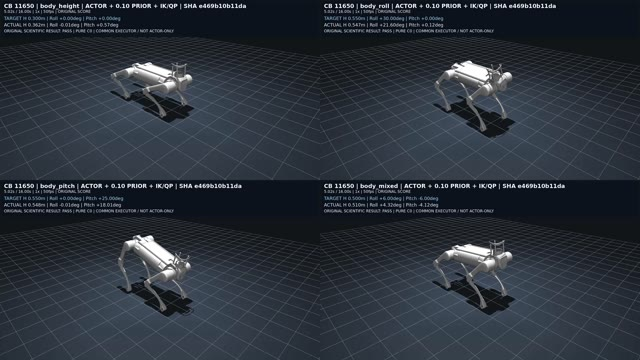
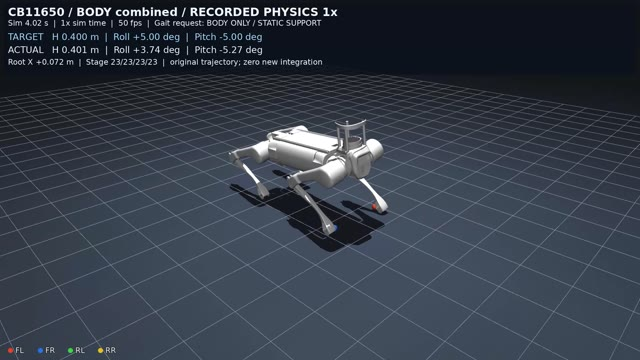
Use combined pose clip in Paper 2 results

diff --git a/paper2/index.html b/paper2/index.html
@@ -16,7 +16,7 @@
 <nav class="section-nav p2-section-nav" aria-label="Paper sections"><a href="#abstract">Abstract</a><a href="#method">Method</a><a href="#results">Results</a></nav>
 <section class="paper-section p2-abstract" id="abstract"><h2>Abstract</h2><p class="pending-copy">Abstract in preparation.</p></section>
 <section class="paper-section section-tinted p2-method" id="method"><div class="section-inner"><h2>Method Overview</h2><div class="p2-method-placeholder"><span aria-hidden="true">◇</span><strong>Method diagram coming soon</strong><small>Framework overview in preparation</small></div></div></section>
-<section class="p2-results" id="results"><h2>Results</h2><p class="p2-results-intro">按任务类别浏览仿真演示。点击下方标签切换视频组。</p><div class="p2-tabs" role="tablist" aria-label="Result categories"><button class="p2-tab is-active" id="tab-terrain" type="button" role="tab" aria-selected="true" aria-controls="panel-terrain" tabindex="0">挑战地形</button><button class="p2-tab" id="tab-motion" type="button" role="tab" aria-selected="false" aria-controls="panel-motion" tabindex="-1">运动与步态</button><button class="p2-tab" id="tab-body" type="button" role="tab" aria-selected="false" aria-controls="panel-body" tabindex="-1">身体姿态</button><button class="p2-tab" id="tab-coordination" type="button" role="tab" aria-selected="false" aria-controls="panel-coordination" tabindex="-1">B+C 协同</button><button class="p2-tab" id="tab-ablation" type="button" role="tab" aria-selected="false" aria-controls="panel-ablation" tabindex="-1">自我消融</button></div><section class="p2-result-panel" id="panel-terrain" role="tabpanel" aria-labelledby="tab-terrain"><h3>挑战地形</h3><p>俯身穿越、稀疏梅花桩、不规则楼梯与窄梁。</p><div class="p2-clip-grid p2-grid-4"><article class="p2-demo-card"><video controls playsinline muted preload="none" poster="../assets/videos/paper2/posters/result_low_clearance.jpg" aria-label="低矮通道｜俯身穿越"><source src="../assets/videos/paper2/media_stage/low_ceiling_success35_v16.mp4" type="video/mp4">Your browser does not support this video.</video><div class="p2-demo-copy"><h4>低矮通道｜俯身穿越</h4><p>降低身体姿态，通过受限净空区域。</p></div></article><article class="p2-demo-card"><video controls playsinline muted preload="none" poster="../assets/videos/paper2/posters/result_pillars.jpg" aria-label="稀疏梅花桩"><source src="../assets/videos/paper2/media_stage/pillars_60mm_trot.mp4" type="video/mp4">Your browser does not support this video.</video><div class="p2-demo-copy"><h4>稀疏梅花桩</h4><p>稀疏离散落脚点上的连续通过。</p></div></article><article class="p2-demo-card"><video controls playsinline muted preload="none" poster="../assets/videos/paper2/posters/result_stairs.jpg" aria-label="中空不规则楼梯"><source src="../assets/videos/paper2/media_stage/random_height_width_stairs_L0.mp4" type="video/mp4">Your browser does not support this video.</video><div class="p2-demo-copy"><h4>中空不规则楼梯</h4><p>踏面尺寸与台阶高度变化的楼梯。</p></div></article><article class="p2-demo-card"><video controls playsinline muted preload="none" poster="../assets/videos/paper2/posters/result_beam.jpg" aria-label="窄梁行走"><source src="../assets/videos/paper2/media_stage/beam_30cm_trot.mp4" type="video/mp4">Your browser does not support this video.</video><div class="p2-demo-copy"><h4>窄梁行走</h4><p>沿窄梁保持连续步态并通过路线。</p></div></article></div></section><section class="p2-result-panel" id="panel-motion" role="tabpanel" aria-labelledby="tab-motion" hidden><h3>运动与步态</h3><p>0.5、1、3、5 m/s 速度目标，以及行走中的步态切换。</p><div class="p2-clip-grid"><article class="p2-demo-card"><video controls playsinline muted preload="none" poster="../assets/videos/paper2/posters/result_speed05.jpg" aria-label="0.5 m/s"><source src="../assets/videos/paper2/media_stage/speed05_goals.mp4" type="video/mp4">Your browser does not support this video.</video><div class="p2-demo-copy"><h4>0.5 m/s</h4><p>低速目标下的四足落脚目标演示。</p></div></article><article class="p2-demo-card"><video controls playsinline muted preload="none" poster="../assets/videos/paper2/posters/result_speed1.jpg" aria-label="1 m/s"><source src="../assets/videos/paper2/media_stage/speed1_goals.mp4" type="video/mp4">Your browser does not support this video.</video><div class="p2-demo-copy"><h4>1 m/s</h4><p>1 m/s 目标速度演示。</p></div></article><article class="p2-demo-card"><video controls playsinline muted preload="none" poster="../assets/videos/paper2/posters/result_speed3.jpg" aria-label="3 m/s"><source src="../assets/videos/paper2/media_stage/speed3_goals.mp4" type="video/mp4">Your browser does not support this video.</video><div class="p2-demo-copy"><h4>3 m/s</h4><p>3 m/s 目标速度演示。</p></div></article><article class="p2-demo-card"><video controls playsinline muted preload="none" poster="../assets/videos/paper2/posters/result_speed5.jpg" aria-label="5 m/s"><source src="../assets/videos/paper2/media_stage/speed5_goals.mp4" type="video/mp4">Your browser does not support this video.</video><div class="p2-demo-copy"><h4>5 m/s</h4><p>5 m/s 目标速度与实际落脚演示。</p></div></article><article class="p2-demo-card"><video controls playsinline muted preload="none" poster="../assets/videos/paper2/posters/result_gait_transition.jpg" aria-label="行走中切换步态"><source src="../assets/videos/paper2/media_stage/combined_gait_transition_REVIEW_reference55_v8.mp4" type="video/mp4">Your browser does not support this video.</video><div class="p2-demo-copy"><h4>行走中切换步态</h4><p>在行走过程中依次请求不同步态。</p></div></article></div></section><section class="p2-result-panel" id="panel-body" role="tabpanel" aria-labelledby="tab-body" hidden><h3>身体姿态</h3><p>连续高度、俯仰、侧倾变化与多轴联合姿态。</p><div class="p2-clip-grid p2-grid-4"><article class="p2-demo-card"><video controls playsinline muted preload="none" poster="../assets/videos/paper2/posters/result_body_height.jpg" aria-label="身体高度｜连续 20–68 cm"><source src="../assets/videos/paper2/media_body_frontier_v1/body_height_CB_B_only.mp4" type="video/mp4">Your browser does not support this video.</video><div class="p2-demo-copy"><h4>身体高度｜连续 20–68 cm</h4><p>连续高度变化；画面保留 C+B 与单 Body 对照。</p></div></article><article class="p2-demo-card"><video controls playsinline muted preload="none" poster="../assets/videos/paper2/posters/result_body_pitch.jpg" aria-label="身体俯仰｜连续 ±28°"><source src="../assets/videos/paper2/media_body_frontier_v1/body_pitch_CB_B_only.mp4" type="video/mp4">Your browser does not support this video.</video><div class="p2-demo-copy"><h4>身体俯仰｜连续 ±28°</h4><p>连续俯仰变化；画面保留 C+B 与单 Body 对照。</p></div></article><article class="p2-demo-card"><video controls playsinline muted preload="none" poster="../assets/videos/paper2/posters/result_body_roll.jpg" aria-label="左右侧倾｜连续 ±40°"><source src="../assets/videos/paper2/media_body_frontier_v1/body_roll_CB_B_only.mp4" type="video/mp4">Your browser does not support this video.</video><div class="p2-demo-copy"><h4>左右侧倾｜连续 ±40°</h4><p>连续侧倾变化；画面保留 C+B 与单 Body 对照。</p></div></article><article class="p2-demo-card"><video controls playsinline muted preload="none" poster="../assets/videos/paper2/posters/result_body_combined.jpg" aria-label="高度＋roll＋pitch 联合姿态"><source src="../assets/videos/paper2/media_stage/body_three_axes_explicit_v17.mp4" type="video/mp4">Your browser does not support this video.</video><div class="p2-demo-copy"><h4>高度＋roll＋pitch 联合姿态</h4><p>高度、roll、pitch 及三轴联合姿态演示。</p></div></article></div></section><section class="p2-result-panel" id="panel-coordination" role="tabpanel" aria-labelledby="tab-coordination" hidden><h3>B+C 协同</h3><p>将合并展示中的五项四足—机械臂协同任务拆成独立视频卡片。</p><div class="p2-clip-grid"><article class="p2-demo-card"><video controls playsinline muted preload="none" poster="../assets/videos/paper2/posters/result_arm_height.jpg" aria-label="升高身体触达"><source src="../assets/videos/paper2/media_arm_tasks/arm_height.mp4" type="video/mp4">Your browser does not support this video.</video><div class="p2-demo-copy"><h4>升高身体触达</h4><p>高度变化时四足与机械臂协同触达；同屏对比固定 Body 与调用 Body。</p></div></article><article class="p2-demo-card"><video controls playsinline muted preload="none" poster="../assets/videos/paper2/posters/result_arm_roll.jpg" aria-label="侧倾身体触达"><source src="../assets/videos/paper2/media_arm_tasks/arm_roll.mp4" type="video/mp4">Your browser does not support this video.</video><div class="p2-demo-copy"><h4>侧倾身体触达</h4><p>侧倾姿态下协同触达；同屏对比固定 Body 与调用 Body。</p></div></article><article class="p2-demo-card"><video controls playsinline muted preload="none" poster="../assets/videos/paper2/posters/result_arm_pitch.jpg" aria-label="俯仰身体触达"><source src="../assets/videos/paper2/media_arm_tasks/arm_pitch.mp4" type="video/mp4">Your browser does not support this video.</video><div class="p2-demo-copy"><h4>俯仰身体触达</h4><p>俯仰姿态下协同触达；同屏对比固定 Body 与调用 Body。</p></div></article><article class="p2-demo-card"><video controls playsinline muted preload="none" poster="../assets/videos/paper2/posters/result_arm_combined.jpg" aria-label="组合姿态触达"><source src="../assets/videos/paper2/media_arm_tasks/arm_combined.mp4" type="video/mp4">Your browser does not support this video.</video><div class="p2-demo-copy"><h4>组合姿态触达</h4><p>高度、roll 与 pitch 组合变化下协同触达；同屏对比两种 Body 配置。</p></div></article><article class="p2-demo-card"><video controls playsinline muted preload="none" poster="../assets/videos/paper2/posters/result_arm_moving_reach.jpg" aria-label="行走中触达"><source src="../assets/videos/paper2/media_arm_tasks/arm_moving_reach.mp4" type="video/mp4">Your browser does not support this video.</video><div class="p2-demo-copy"><h4>行走中触达</h4><p>移动过程中完成四足行走与机械臂触达；同屏对比两种 Body 配置。</p></div></article></div></section><section class="p2-result-panel" id="panel-ablation" role="tabpanel" aria-labelledby="tab-ablation" hidden><h3>自我消融</h3><p>按 Body、Contact、Body＋Contact 三类任务查看已有 C+B、C-only 与 B-only 阶段素材。</p><p class="p2-ablation-note">以下为当前已有的阶段对照视频；完整实验范围与指标请见 demo showcase。</p><div class="p2-ablation-group"><h4>纯 Body（无臂）</h4><div class="p2-clip-grid"><article class="p2-demo-card"><video controls playsinline muted preload="none" poster="../assets/videos/paper2/posters/result_ablation_body_CB.jpg" aria-label="纯 Body（无臂）｜完整 C+B"><source src="../assets/videos/paper2/media_stage_ablation/native_three_v2/CB_body.mp4" type="video/mp4">Your browser does not support this video.</video><div class="p2-demo-copy"><h4>纯 Body（无臂）｜完整 C+B</h4><p>固定身体控制、不含机械臂的对照任务；当前展示已有阶段素材。</p></div></article><article class="p2-demo-card"><video controls playsinline muted preload="none" poster="../assets/videos/paper2/posters/result_ablation_body_C_only.jpg" aria-label="纯 Body（无臂）｜mask B｜C-only"><source src="../assets/videos/paper2/media_stage_ablation/native_three_v2/C_only_body.mp4" type="video/mp4">Your browser does not support this video.</video><div class="p2-demo-copy"><h4>纯 Body（无臂）｜mask B｜C-only</h4><p>固定身体控制、不含机械臂的对照任务；当前展示已有阶段素材。</p></div></article><article class="p2-demo-card"><video controls playsinline muted preload="none" poster="../assets/videos/paper2/posters/result_ablation_body_B_only.jpg" aria-label="纯 Body（无臂）｜mask C｜B-only"><source src="../assets/videos/paper2/media_stage_ablation/native_three_v2/B_only_body.mp4" type="video/mp4">Your browser does not support this video.</video><div class="p2-demo-copy"><h4>纯 Body（无臂）｜mask C｜B-only</h4><p>固定身体控制、不含机械臂的对照任务；当前展示已有阶段素材。</p></div></article></div></div><div class="p2-ablation-group"><h4>Contact 路线</h4><div class="p2-clip-grid"><article class="p2-demo-card"><video controls playsinline muted preload="none" poster="../assets/videos/paper2/posters/result_ablation_contact_CB.jpg" aria-label="Contact 路线｜完整 C+B"><source src="../assets/videos/paper2/media_stage_ablation/native_three_v2/CB_contact.mp4" type="video/mp4">Your browser does not support this video.</video><div class="p2-demo-copy"><h4>Contact 路线｜完整 C+B</h4><p>离散接触与落脚路线任务；当前展示已有阶段素材。</p></div></article><article class="p2-demo-card"><video controls playsinline muted preload="none" poster="../assets/videos/paper2/posters/result_ablation_contact_C_only.jpg" aria-label="Contact 路线｜mask B｜C-only"><source src="../assets/videos/paper2/media_stage_ablation/native_three_v2/C_only_contact.mp4" type="video/mp4">Your browser does not support this video.</video><div class="p2-demo-copy"><h4>Contact 路线｜mask B｜C-only</h4><p>离散接触与落脚路线任务；当前展示已有阶段素材。</p></div></article><article class="p2-demo-card"><video controls playsinline muted preload="none" poster="../assets/videos/paper2/posters/result_ablation_contact_B_only.jpg" aria-label="Contact 路线｜mask C｜B-only"><source src="../assets/videos/paper2/media_stage_ablation/native_three_v2/B_only_contact.mp4" type="video/mp4">Your browser does not support this video.</video><div class="p2-demo-copy"><h4>Contact 路线｜mask C｜B-only</h4><p>离散接触与落脚路线任务；当前展示已有阶段素材。</p></div></article></div></div><div class="p2-ablation-group"><h4>Body＋Contact 联合</h4><div class="p2-clip-grid"><article class="p2-demo-card"><video controls playsinline muted preload="none" poster="../assets/videos/paper2/posters/result_ablation_joint_CB.jpg" aria-label="Body＋Contact 联合｜完整 C+B"><source src="../assets/videos/paper2/media_stage_ablation/native_three_v2/CB_joint.mp4" type="video/mp4">Your browser does not support this video.</video><div class="p2-demo-copy"><h4>Body＋Contact 联合｜完整 C+B</h4><p>身体姿态与接触路线同时变化的任务；当前展示已有阶段素材。</p></div></article><article class="p2-demo-card"><video controls playsinline muted preload="none" poster="../assets/videos/paper2/posters/result_ablation_joint_C_only.jpg" aria-label="Body＋Contact 联合｜mask B｜C-only"><source src="../assets/videos/paper2/media_stage_ablation/native_three_v2/C_only_joint.mp4" type="video/mp4">Your browser does not support this video.</video><div class="p2-demo-copy"><h4>Body＋Contact 联合｜mask B｜C-only</h4><p>身体姿态与接触路线同时变化的任务；当前展示已有阶段素材。</p></div></article><article class="p2-demo-card"><video controls playsinline muted preload="none" poster="../assets/videos/paper2/posters/result_ablation_joint_B_only.jpg" aria-label="Body＋Contact 联合｜mask C｜B-only"><source src="../assets/videos/paper2/media_stage_ablation/native_three_v2/B_only_joint.mp4" type="video/mp4">Your browser does not support this video.</video><div class="p2-demo-copy"><h4>Body＋Contact 联合｜mask C｜B-only</h4><p>身体姿态与接触路线同时变化的任务；当前展示已有阶段素材。</p></div></article></div></div></section></section>
+<section class="p2-results" id="results"><h2>Results</h2><p class="p2-results-intro">按任务类别浏览仿真演示。点击下方标签切换视频组。</p><div class="p2-tabs" role="tablist" aria-label="Result categories"><button class="p2-tab is-active" id="tab-terrain" type="button" role="tab" aria-selected="true" aria-controls="panel-terrain" tabindex="0">挑战地形</button><button class="p2-tab" id="tab-motion" type="button" role="tab" aria-selected="false" aria-controls="panel-motion" tabindex="-1">运动与步态</button><button class="p2-tab" id="tab-body" type="button" role="tab" aria-selected="false" aria-controls="panel-body" tabindex="-1">身体姿态</button><button class="p2-tab" id="tab-coordination" type="button" role="tab" aria-selected="false" aria-controls="panel-coordination" tabindex="-1">B+C 协同</button><button class="p2-tab" id="tab-ablation" type="button" role="tab" aria-selected="false" aria-controls="panel-ablation" tabindex="-1">自我消融</button></div><section class="p2-result-panel" id="panel-terrain" role="tabpanel" aria-labelledby="tab-terrain"><h3>挑战地形</h3><p>俯身穿越、稀疏梅花桩、不规则楼梯与窄梁。</p><div class="p2-clip-grid p2-grid-4"><article class="p2-demo-card"><video controls playsinline muted preload="none" poster="../assets/videos/paper2/posters/result_low_clearance.jpg" aria-label="低矮通道｜俯身穿越"><source src="../assets/videos/paper2/media_stage/low_ceiling_success35_v16.mp4" type="video/mp4">Your browser does not support this video.</video><div class="p2-demo-copy"><h4>低矮通道｜俯身穿越</h4><p>降低身体姿态，通过受限净空区域。</p></div></article><article class="p2-demo-card"><video controls playsinline muted preload="none" poster="../assets/videos/paper2/posters/result_pillars.jpg" aria-label="稀疏梅花桩"><source src="../assets/videos/paper2/media_stage/pillars_60mm_trot.mp4" type="video/mp4">Your browser does not support this video.</video><div class="p2-demo-copy"><h4>稀疏梅花桩</h4><p>稀疏离散落脚点上的连续通过。</p></div></article><article class="p2-demo-card"><video controls playsinline muted preload="none" poster="../assets/videos/paper2/posters/result_stairs.jpg" aria-label="中空不规则楼梯"><source src="../assets/videos/paper2/media_stage/random_height_width_stairs_L0.mp4" type="video/mp4">Your browser does not support this video.</video><div class="p2-demo-copy"><h4>中空不规则楼梯</h4><p>踏面尺寸与台阶高度变化的楼梯。</p></div></article><article class="p2-demo-card"><video controls playsinline muted preload="none" poster="../assets/videos/paper2/posters/result_beam.jpg" aria-label="窄梁行走"><source src="../assets/videos/paper2/media_stage/beam_30cm_trot.mp4" type="video/mp4">Your browser does not support this video.</video><div class="p2-demo-copy"><h4>窄梁行走</h4><p>沿窄梁保持连续步态并通过路线。</p></div></article></div></section><section class="p2-result-panel" id="panel-motion" role="tabpanel" aria-labelledby="tab-motion" hidden><h3>运动与步态</h3><p>0.5、1、3、5 m/s 速度目标，以及行走中的步态切换。</p><div class="p2-clip-grid"><article class="p2-demo-card"><video controls playsinline muted preload="none" poster="../assets/videos/paper2/posters/result_speed05.jpg" aria-label="0.5 m/s"><source src="../assets/videos/paper2/media_stage/speed05_goals.mp4" type="video/mp4">Your browser does not support this video.</video><div class="p2-demo-copy"><h4>0.5 m/s</h4><p>低速目标下的四足落脚目标演示。</p></div></article><article class="p2-demo-card"><video controls playsinline muted preload="none" poster="../assets/videos/paper2/posters/result_speed1.jpg" aria-label="1 m/s"><source src="../assets/videos/paper2/media_stage/speed1_goals.mp4" type="video/mp4">Your browser does not support this video.</video><div class="p2-demo-copy"><h4>1 m/s</h4><p>1 m/s 目标速度演示。</p></div></article><article class="p2-demo-card"><video controls playsinline muted preload="none" poster="../assets/videos/paper2/posters/result_speed3.jpg" aria-label="3 m/s"><source src="../assets/videos/paper2/media_stage/speed3_goals.mp4" type="video/mp4">Your browser does not support this video.</video><div class="p2-demo-copy"><h4>3 m/s</h4><p>3 m/s 目标速度演示。</p></div></article><article class="p2-demo-card"><video controls playsinline muted preload="none" poster="../assets/videos/paper2/posters/result_speed5.jpg" aria-label="5 m/s"><source src="../assets/videos/paper2/media_stage/speed5_goals.mp4" type="video/mp4">Your browser does not support this video.</video><div class="p2-demo-copy"><h4>5 m/s</h4><p>5 m/s 目标速度与实际落脚演示。</p></div></article><article class="p2-demo-card"><video controls playsinline muted preload="none" poster="../assets/videos/paper2/posters/result_gait_transition.jpg" aria-label="行走中切换步态"><source src="../assets/videos/paper2/media_stage/combined_gait_transition_REVIEW_reference55_v8.mp4" type="video/mp4">Your browser does not support this video.</video><div class="p2-demo-copy"><h4>行走中切换步态</h4><p>在行走过程中依次请求不同步态。</p></div></article></div></section><section class="p2-result-panel" id="panel-body" role="tabpanel" aria-labelledby="tab-body" hidden><h3>身体姿态</h3><p>连续高度、俯仰、侧倾变化与多轴联合姿态。</p><div class="p2-clip-grid p2-grid-4"><article class="p2-demo-card"><video controls playsinline muted preload="none" poster="../assets/videos/paper2/posters/result_body_height.jpg" aria-label="身体高度｜连续 20–68 cm"><source src="../assets/videos/paper2/media_body_frontier_v1/body_height_CB_B_only.mp4" type="video/mp4">Your browser does not support this video.</video><div class="p2-demo-copy"><h4>身体高度｜连续 20–68 cm</h4><p>连续高度变化；画面保留 C+B 与单 Body 对照。</p></div></article><article class="p2-demo-card"><video controls playsinline muted preload="none" poster="../assets/videos/paper2/posters/result_body_pitch.jpg" aria-label="身体俯仰｜连续 ±28°"><source src="../assets/videos/paper2/media_body_frontier_v1/body_pitch_CB_B_only.mp4" type="video/mp4">Your browser does not support this video.</video><div class="p2-demo-copy"><h4>身体俯仰｜连续 ±28°</h4><p>连续俯仰变化；画面保留 C+B 与单 Body 对照。</p></div></article><article class="p2-demo-card"><video controls playsinline muted preload="none" poster="../assets/videos/paper2/posters/result_body_roll.jpg" aria-label="左右侧倾｜连续 ±40°"><source src="../assets/videos/paper2/media_body_frontier_v1/body_roll_CB_B_only.mp4" type="video/mp4">Your browser does not support this video.</video><div class="p2-demo-copy"><h4>左右侧倾｜连续 ±40°</h4><p>连续侧倾变化；画面保留 C+B 与单 Body 对照。</p></div></article><article class="p2-demo-card"><video controls playsinline muted preload="none" poster="../assets/videos/paper2/posters/result_body_combined.jpg" aria-label="高度＋roll＋pitch 联合姿态"><source src="../assets/videos/paper2/media_stage/body_combined.mp4" type="video/mp4">Your browser does not support this video.</video><div class="p2-demo-copy"><h4>高度＋roll＋pitch 联合姿态</h4><p>40 cm 高度，roll +5°、pitch −5°联合静态姿态。</p></div></article></div></section><section class="p2-result-panel" id="panel-coordination" role="tabpanel" aria-labelledby="tab-coordination" hidden><h3>B+C 协同</h3><p>将合并展示中的五项四足—机械臂协同任务拆成独立视频卡片。</p><div class="p2-clip-grid"><article class="p2-demo-card"><video controls playsinline muted preload="none" poster="../assets/videos/paper2/posters/result_arm_height.jpg" aria-label="升高身体触达"><source src="../assets/videos/paper2/media_arm_tasks/arm_height.mp4" type="video/mp4">Your browser does not support this video.</video><div class="p2-demo-copy"><h4>升高身体触达</h4><p>高度变化时四足与机械臂协同触达；同屏对比固定 Body 与调用 Body。</p></div></article><article class="p2-demo-card"><video controls playsinline muted preload="none" poster="../assets/videos/paper2/posters/result_arm_roll.jpg" aria-label="侧倾身体触达"><source src="../assets/videos/paper2/media_arm_tasks/arm_roll.mp4" type="video/mp4">Your browser does not support this video.</video><div class="p2-demo-copy"><h4>侧倾身体触达</h4><p>侧倾姿态下协同触达；同屏对比固定 Body 与调用 Body。</p></div></article><article class="p2-demo-card"><video controls playsinline muted preload="none" poster="../assets/videos/paper2/posters/result_arm_pitch.jpg" aria-label="俯仰身体触达"><source src="../assets/videos/paper2/media_arm_tasks/arm_pitch.mp4" type="video/mp4">Your browser does not support this video.</video><div class="p2-demo-copy"><h4>俯仰身体触达</h4><p>俯仰姿态下协同触达；同屏对比固定 Body 与调用 Body。</p></div></article><article class="p2-demo-card"><video controls playsinline muted preload="none" poster="../assets/videos/paper2/posters/result_arm_combined.jpg" aria-label="组合姿态触达"><source src="../assets/videos/paper2/media_arm_tasks/arm_combined.mp4" type="video/mp4">Your browser does not support this video.</video><div class="p2-demo-copy"><h4>组合姿态触达</h4><p>高度、roll 与 pitch 组合变化下协同触达；同屏对比两种 Body 配置。</p></div></article><article class="p2-demo-card"><video controls playsinline muted preload="none" poster="../assets/videos/paper2/posters/result_arm_moving_reach.jpg" aria-label="行走中触达"><source src="../assets/videos/paper2/media_arm_tasks/arm_moving_reach.mp4" type="video/mp4">Your browser does not support this video.</video><div class="p2-demo-copy"><h4>行走中触达</h4><p>移动过程中完成四足行走与机械臂触达；同屏对比两种 Body 配置。</p></div></article></div></section><section class="p2-result-panel" id="panel-ablation" role="tabpanel" aria-labelledby="tab-ablation" hidden><h3>自我消融</h3><p>按 Body、Contact、Body＋Contact 三类任务查看已有 C+B、C-only 与 B-only 阶段素材。</p><p class="p2-ablation-note">以下为当前已有的阶段对照视频；完整实验范围与指标请见 demo showcase。</p><div class="p2-ablation-group"><h4>纯 Body（无臂）</h4><div class="p2-clip-grid"><article class="p2-demo-card"><video controls playsinline muted preload="none" poster="../assets/videos/paper2/posters/result_ablation_body_CB.jpg" aria-label="纯 Body（无臂）｜完整 C+B"><source src="../assets/videos/paper2/media_stage_ablation/native_three_v2/CB_body.mp4" type="video/mp4">Your browser does not support this video.</video><div class="p2-demo-copy"><h4>纯 Body（无臂）｜完整 C+B</h4><p>固定身体控制、不含机械臂的对照任务；当前展示已有阶段素材。</p></div></article><article class="p2-demo-card"><video controls playsinline muted preload="none" poster="../assets/videos/paper2/posters/result_ablation_body_C_only.jpg" aria-label="纯 Body（无臂）｜mask B｜C-only"><source src="../assets/videos/paper2/media_stage_ablation/native_three_v2/C_only_body.mp4" type="video/mp4">Your browser does not support this video.</video><div class="p2-demo-copy"><h4>纯 Body（无臂）｜mask B｜C-only</h4><p>固定身体控制、不含机械臂的对照任务；当前展示已有阶段素材。</p></div></article><article class="p2-demo-card"><video controls playsinline muted preload="none" poster="../assets/videos/paper2/posters/result_ablation_body_B_only.jpg" aria-label="纯 Body（无臂）｜mask C｜B-only"><source src="../assets/videos/paper2/media_stage_ablation/native_three_v2/B_only_body.mp4" type="video/mp4">Your browser does not support this video.</video><div class="p2-demo-copy"><h4>纯 Body（无臂）｜mask C｜B-only</h4><p>固定身体控制、不含机械臂的对照任务；当前展示已有阶段素材。</p></div></article></div></div><div class="p2-ablation-group"><h4>Contact 路线</h4><div class="p2-clip-grid"><article class="p2-demo-card"><video controls playsinline muted preload="none" poster="../assets/videos/paper2/posters/result_ablation_contact_CB.jpg" aria-label="Contact 路线｜完整 C+B"><source src="../assets/videos/paper2/media_stage_ablation/native_three_v2/CB_contact.mp4" type="video/mp4">Your browser does not support this video.</video><div class="p2-demo-copy"><h4>Contact 路线｜完整 C+B</h4><p>离散接触与落脚路线任务；当前展示已有阶段素材。</p></div></article><article class="p2-demo-card"><video controls playsinline muted preload="none" poster="../assets/videos/paper2/posters/result_ablation_contact_C_only.jpg" aria-label="Contact 路线｜mask B｜C-only"><source src="../assets/videos/paper2/media_stage_ablation/native_three_v2/C_only_contact.mp4" type="video/mp4">Your browser does not support this video.</video><div class="p2-demo-copy"><h4>Contact 路线｜mask B｜C-only</h4><p>离散接触与落脚路线任务；当前展示已有阶段素材。</p></div></article><article class="p2-demo-card"><video controls playsinline muted preload="none" poster="../assets/videos/paper2/posters/result_ablation_contact_B_only.jpg" aria-label="Contact 路线｜mask C｜B-only"><source src="../assets/videos/paper2/media_stage_ablation/native_three_v2/B_only_contact.mp4" type="video/mp4">Your browser does not support this video.</video><div class="p2-demo-copy"><h4>Contact 路线｜mask C｜B-only</h4><p>离散接触与落脚路线任务；当前展示已有阶段素材。</p></div></article></div></div><div class="p2-ablation-group"><h4>Body＋Contact 联合</h4><div class="p2-clip-grid"><article class="p2-demo-card"><video controls playsinline muted preload="none" poster="../assets/videos/paper2/posters/result_ablation_joint_CB.jpg" aria-label="Body＋Contact 联合｜完整 C+B"><source src="../assets/videos/paper2/media_stage_ablation/native_three_v2/CB_joint.mp4" type="video/mp4">Your browser does not support this video.</video><div class="p2-demo-copy"><h4>Body＋Contact 联合｜完整 C+B</h4><p>身体姿态与接触路线同时变化的任务；当前展示已有阶段素材。</p></div></article><article class="p2-demo-card"><video controls playsinline muted preload="none" poster="../assets/videos/paper2/posters/result_ablation_joint_C_only.jpg" aria-label="Body＋Contact 联合｜mask B｜C-only"><source src="../assets/videos/paper2/media_stage_ablation/native_three_v2/C_only_joint.mp4" type="video/mp4">Your browser does not support this video.</video><div class="p2-demo-copy"><h4>Body＋Contact 联合｜mask B｜C-only</h4><p>身体姿态与接触路线同时变化的任务；当前展示已有阶段素材。</p></div></article><article class="p2-demo-card"><video controls playsinline muted preload="none" poster="../assets/videos/paper2/posters/result_ablation_joint_B_only.jpg" aria-label="Body＋Contact 联合｜mask C｜B-only"><source src="../assets/videos/paper2/media_stage_ablation/native_three_v2/B_only_joint.mp4" type="video/mp4">Your browser does not support this video.</video><div class="p2-demo-copy"><h4>Body＋Contact 联合｜mask C｜B-only</h4><p>身体姿态与接触路线同时变化的任务；当前展示已有阶段素材。</p></div></article></div></div></section></section>
 <section class="p2-footer-cta"><p>The full collection includes the current experiment pages and supporting details.</p><a class="button" href="demo/">Open the demo showcase</a></section>
 <nav class="paper-back" aria-label="Back to project collection"><a href="../">← All research projects</a></nav>
 <script>

diff --git a/scripts/build_site.py b/scripts/build_site.py
@@ -74,7 +74,7 @@ def build_demo_landing(p):
         ('身体高度｜连续 20–68 cm', 'media_body_frontier_v1/body_height_CB_B_only.mp4', 'result_body_height.jpg', 'body', '连续高度变化；画面保留 C+B 与单 Body 对照。'),
         ('身体俯仰｜连续 ±28°', 'media_body_frontier_v1/body_pitch_CB_B_only.mp4', 'result_body_pitch.jpg', 'body', '连续俯仰变化；画面保留 C+B 与单 Body 对照。'),
         ('左右侧倾｜连续 ±40°', 'media_body_frontier_v1/body_roll_CB_B_only.mp4', 'result_body_roll.jpg', 'body', '连续侧倾变化；画面保留 C+B 与单 Body 对照。'),
-        ('高度＋roll＋pitch 联合姿态', 'media_stage/body_three_axes_explicit_v17.mp4', 'result_body_combined.jpg', 'body', '高度、roll、pitch 及三轴联合姿态演示。'),
+        ('高度＋roll＋pitch 联合姿态', 'media_stage/body_combined.mp4', 'result_body_combined.jpg', 'body', '40 cm 高度，roll +5°、pitch −5°联合静态姿态。'),
     ]
     arm_tasks = [
         ('升高身体触达', 'arm_height', '高度变化时四足与机械臂协同触达；同屏对比固定 Body 与调用 Body。'),
